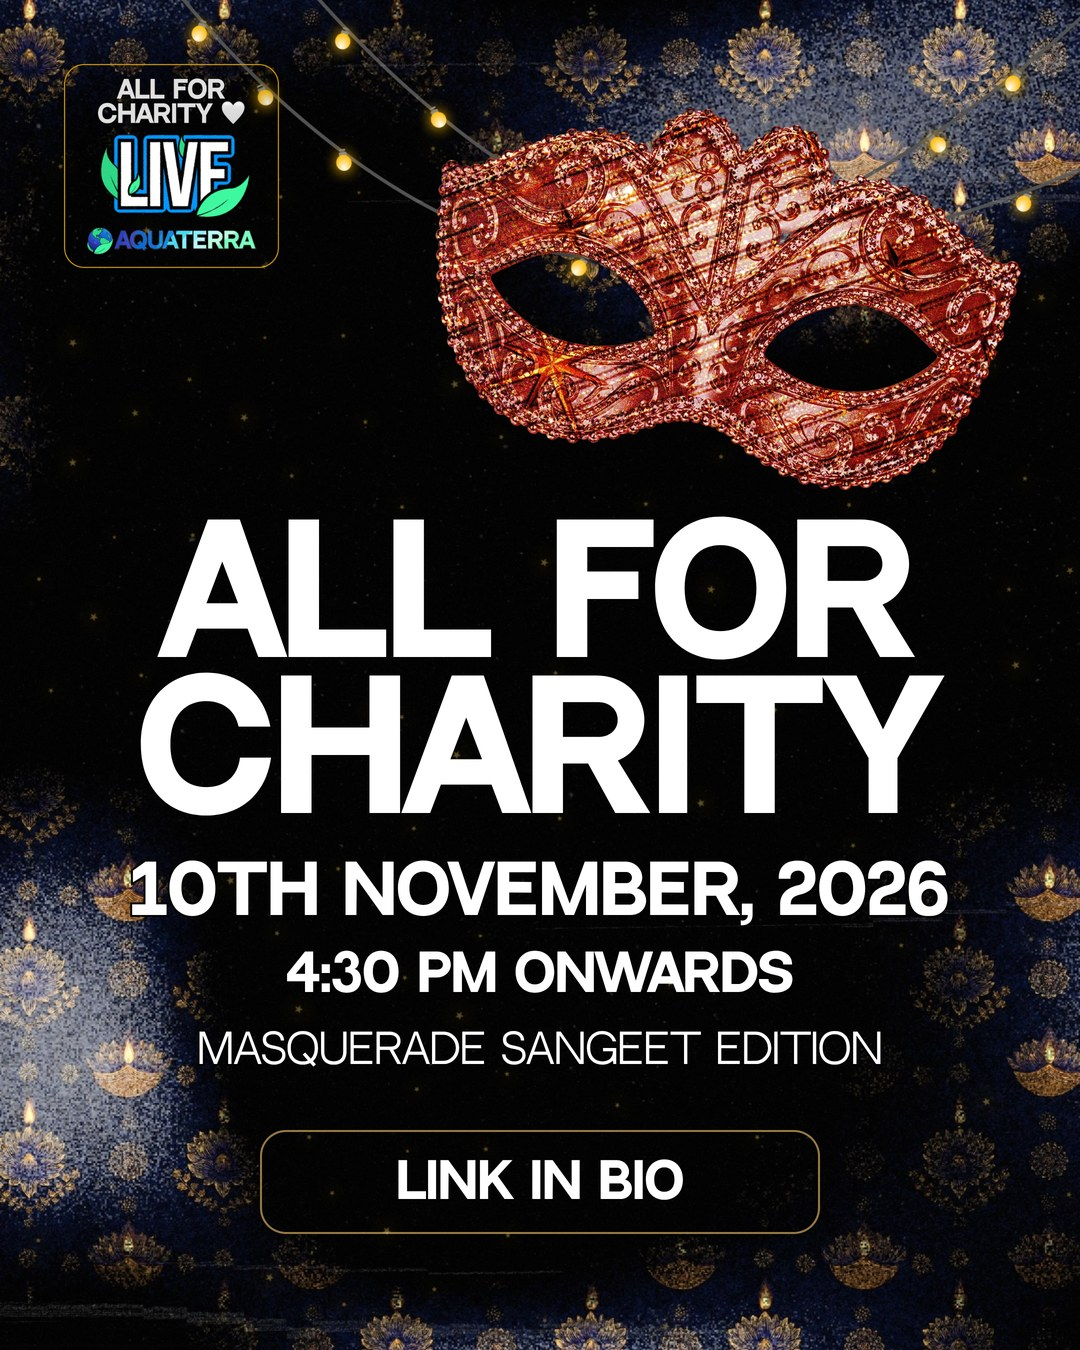
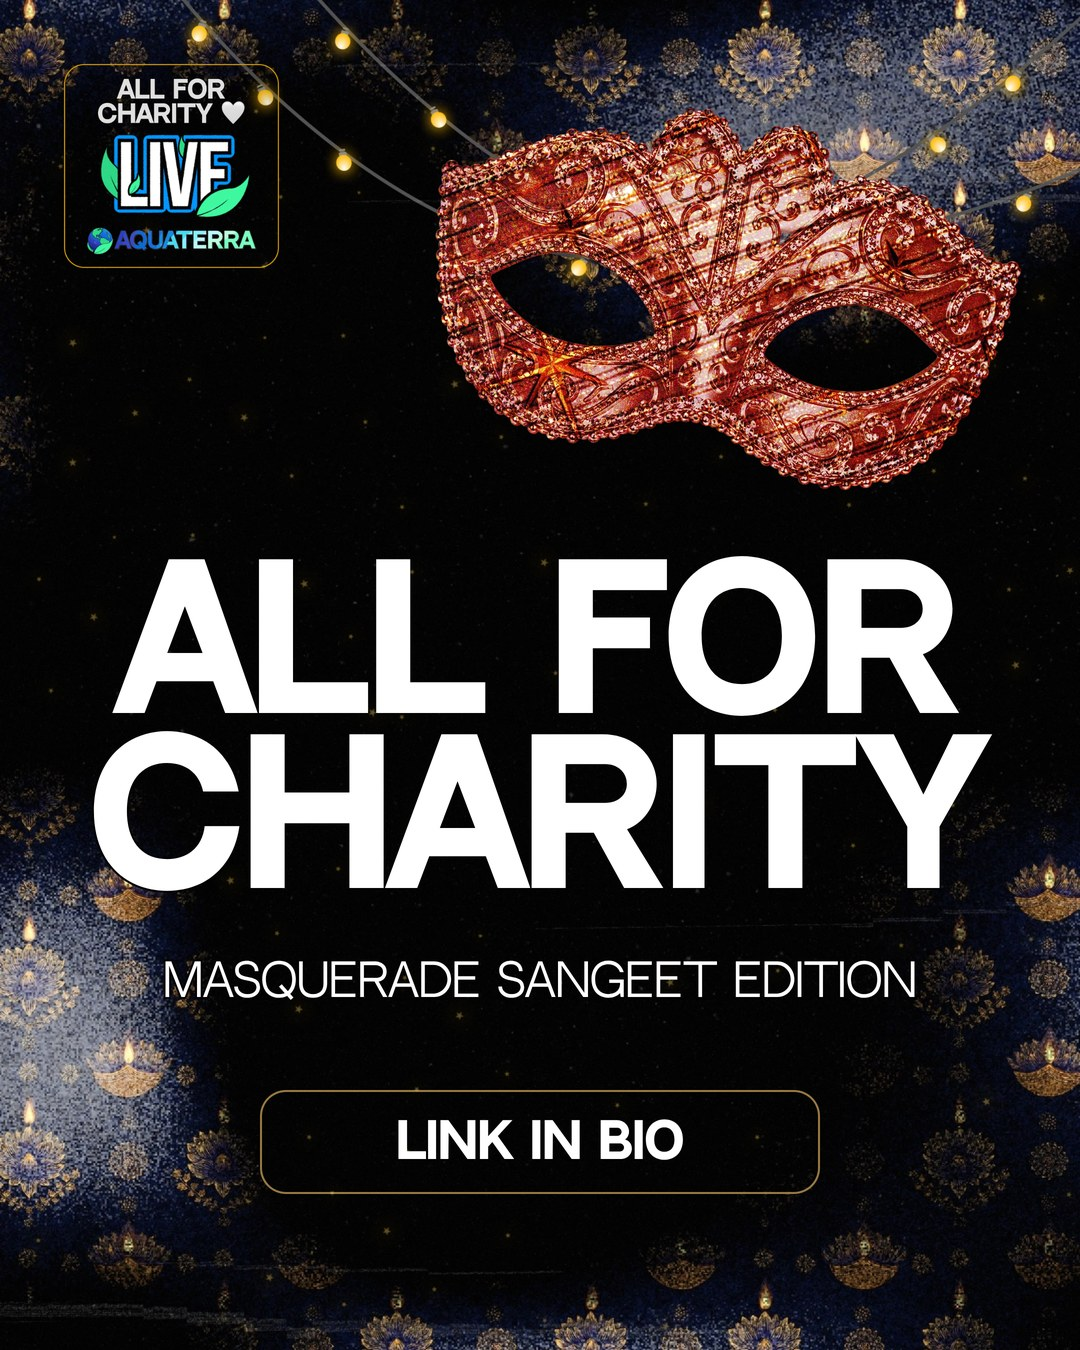
Disco Diwali carousel: remove date and time from the last slide, re-space
Claude-Session: https://claude.ai/code/session_01SvqxkoTEENgXPyjFifmnqB

Changed region(s): [[0.0611, 0.3733, 0.9167, 0.9022], [0.7333, 0.8711, 0.7639, 0.9022]]

diff --git a/scratchpad/dd_carousel_captcha.py b/scratchpad/dd_carousel_captcha.py
@@ -4,7 +4,7 @@ Four 1080x1350 slides on the approved diya ground (black, navy and gold lotus-di
   1  COVER: title lockup, copper mask, LIVE badge, a captcha card hook (verify you're a Disco Diwali human, spinning checkbox, SWIPE button)
   2  the captcha, nine REAL event photos in the 3x3 grid, nothing selected yet
   3  the same card, all nine selected (tiles inset, tick badges), the button now says VERIFIED
-  4  ALL FOR CHARITY + date and time + LINK IN BIO pill
+  4  ALL FOR CHARITY + the edition line + LINK IN BIO pill (no date or time, user 2026-10-14)
 (The earlier reveal slide, the poster_ref design with the status lines, was removed by the user, 2026-10-14.)
 
 Adaptations recorded (CLAUDE.md sec 2 precedence ladder):
@@ -122,16 +122,15 @@ def cover_slide():
 
 
 def charity_slide():
+    """ALL FOR CHARITY, the edition line and the LINK IN BIO pill. No date or time (user, 2026-10-14): the type is scaled up and re-spaced to own the frame."""
     bd, bd_box = badge(64, 64, 215)
     mask = (f'<img data-tag="mask" src="{dd.uri("mask_copper.png")}" style="position:absolute;left:370px;top:20px;width:700px;z-index:12">')
-    heading = (f'<div data-tag="heading" style="position:absolute;left:0;width:{W}px;top:520px;text-align:center;font-family:var(--d);font-weight:700;font-size:170px;line-height:.92;text-transform:uppercase;{STROKE}z-index:20">All for<br>charity</div>')
-    date = (f'<div data-tag="date" style="position:absolute;left:0;width:{W}px;top:860px;text-align:center;font-family:var(--d);font-weight:700;font-size:66px;text-transform:uppercase;{STROKE}z-index:20">10th November, 2026</div>'
-            f'<div data-tag="time" style="position:absolute;left:0;width:{W}px;top:950px;text-align:center;font-family:var(--d);font-weight:700;font-size:50px;text-transform:uppercase;{STROKE}z-index:20">4:30 PM onwards</div>')
-    ed = (f'<div data-tag="edition" style="position:absolute;left:0;width:{W}px;top:1030px;text-align:center;font-family:var(--d);font-weight:400;font-size:40px;text-transform:uppercase;{STROKE}z-index:20">Masquerade Sangeet Edition</div>')
-    pill = (f'<div data-tag="pill" style="position:absolute;left:{(W - 560) // 2}px;top:1130px;width:560px;height:104px;border:2px solid rgba(214,170,90,.7);border-radius:26px;background:rgba(0,0,0,.28);display:flex;align-items:center;justify-content:center;font-family:var(--d);font-weight:700;font-size:48px;text-transform:uppercase;{STROKE}z-index:20">Link in bio</div>')
-    els = [("badge",) + bd_box, ("mask", 435, 108, 585, 384), ("heading", 120, 520, 840, 320), ("date", 120, 860, 840, 70),
-           ("time", 220, 950, 640, 52), ("edition", 140, 1030, 800, 44), ("pill", (W - 560) // 2, 1130, 560, 104)]
-    return bg_layers() + bd + mask + heading + date + ed + pill, els
+    heading = (f'<div data-tag="heading" style="position:absolute;left:0;width:{W}px;top:560px;text-align:center;font-family:var(--d);font-weight:700;font-size:190px;line-height:.92;text-transform:uppercase;{STROKE}z-index:20">All for<br>charity</div>')
+    ed = (f'<div data-tag="edition" style="position:absolute;left:0;width:{W}px;top:960px;text-align:center;font-family:var(--d);font-weight:400;font-size:44px;text-transform:uppercase;{STROKE}z-index:20">Masquerade Sangeet Edition</div>')
+    pill = (f'<div data-tag="pill" style="position:absolute;left:{(W - 560) // 2}px;top:1090px;width:560px;height:104px;border:2px solid rgba(214,170,90,.7);border-radius:26px;background:rgba(0,0,0,.28);display:flex;align-items:center;justify-content:center;font-family:var(--d);font-weight:700;font-size:48px;text-transform:uppercase;{STROKE}z-index:20">Link in bio</div>')
+    els = [("badge",) + bd_box, ("mask", 435, 108, 585, 384), ("heading", 90, 560, 900, 350), ("edition", 120, 960, 840, 48),
+           ("pill", (W - 560) // 2, 1090, 560, 104)]
+    return bg_layers() + bd + mask + heading + ed + pill, els
 
 
 async def main():

diff --git a/brain/DISCO_DIWALI.md b/brain/DISCO_DIWALI.md
@@ -76,7 +76,7 @@ Real event photos from `engine/assets/img/events/unsorted-2026-10-07/` (by NN pr
 Use kind `story_ref` (`scratchpad/dd_bulk_stories.py`), never `story_launch`, for any batch of stories. It is the remake of the user's reference story, built from measured positions: LIVE badge top left, copper mask top right, ball-free title lockup (`title_lockup_noball.png`), "MASQUERADE SANGEET" 40px bold with a white regular "EDITION" 38px, "TICKET SALES OPEN SOON" 52px, "MORE DETAILS TO FOLLOW" 38px, and a soft gold-edged "LINK IN BIO" pill. Photo runs edge to edge (no diya plate), all type NeutralFace white with a thin black border, no date or time. Only the photo changes between stories. Open questions: the reference's own photo is not in the repo (photo 05 stands in), and the pill sits where an Instagram link sticker would go.
 
 ### CAROUSEL: "captcha" (`scratchpad/dd_carousel_captcha.py`, JPEGs in `sample_outputs/disco_diwali_carousel/`)
-Four 1080x1350 slides on the approved diya ground (user, 2026-10-14, "i want this blue effect": black, navy and gold lotus-diya corners fading to black, string lights; not the beam recipe), from a user inspo (a "Choose everything related to..." verification card over a party photo): 1 the COVER (title lockup, copper mask, LIVE badge, a full captcha-card hook: blue header VERIFY YOU'RE A DISCO DIWALI HUMAN, a checkbox with a spinner, a SWIPE button), 2 the card with nine real event photos, 3 the same card with all nine ticked and the button reading VERIFIED, 4 ALL FOR CHARITY with date, time and the LINK IN BIO pill. Adaptations: the card is a design device (no reCAPTCHA marks, real photos, our button); the inspo's "best parties in the city" became "Related to Disco Diwali" because the claim cannot be backed; the header keeps the inspo's blue as the recognisable mechanism. No price, venue or lineup. Photo consent caveat applies (nine event photos, several show apparent minors).
+Four 1080x1350 slides on the approved diya ground (user, 2026-10-14, "i want this blue effect": black, navy and gold lotus-diya corners fading to black, string lights; not the beam recipe), from a user inspo (a "Choose everything related to..." verification card over a party photo): 1 the COVER (title lockup, copper mask, LIVE badge, a full captcha-card hook: blue header VERIFY YOU'RE A DISCO DIWALI HUMAN, a checkbox with a spinner, a SWIPE button), 2 the card with nine real event photos, 3 the same card with all nine ticked and the button reading VERIFIED, 4 ALL FOR CHARITY with the edition line and the LINK IN BIO pill (no date or time anywhere in the carousel, user 2026-10-14). Adaptations: the card is a design device (no reCAPTCHA marks, real photos, our button); the inspo's "best parties in the city" became "Related to Disco Diwali" because the claim cannot be backed; the header keeps the inspo's blue as the recognisable mechanism. No price, venue or lineup. Photo consent caveat applies (nine event photos, several show apparent minors).
 
 ## 6. Conflicts with CLAUDE.md and how they were resolved (precedence ladder, sec 2)
 - Ground, palette and fonts differ from the AQ house style. Resolved as a format exception, like TerraThon. The format wins inside `discodiwali.py` only.
